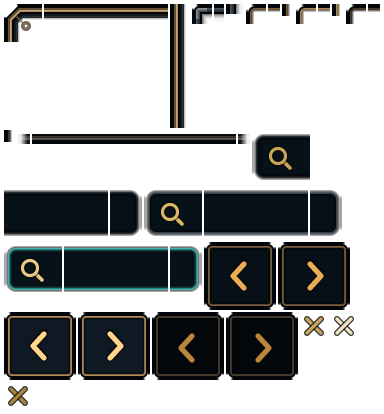
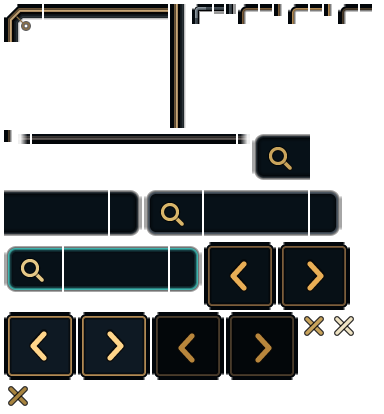
feat: compact Dereth slots, text and padding
Slots are 38 px on a 40 px pitch with a thin 3 px rim, so 32 px DAT icons
fill them. The header, title, labels and stack counts are smaller, and the
Vault uses one even 6 px gap with no extra grid inset.

Changed region(s): [[0.5, 0.0, 1.0, 0.058]]

diff --git a/decal-plugin/LegACEy.Plugin.Vault/VaultShellPanel.cs b/decal-plugin/LegACEy.Plugin.Vault/VaultShellPanel.cs
@@ -20,9 +20,9 @@ namespace LegACEy.Plugin.Vault;
 /// </summary>
 public sealed class VaultShellPanel : UserControl, IDisposable, IRetailItemDropTarget
 {
-    public const int WindowWidth = 566;
-    // Room for ten rows with Windows fonts, whose taller lines take 12 px more than the Linux test fonts.
-    public const int WindowHeight = 706;
+    public const int WindowWidth = 450;
+    // Room for ten rows with Windows fonts, whose lines are taller than the Linux test fonts'.
+    public const int WindowHeight = 580;
     /// <summary>The header's chest icon, from the DAT.</summary>
     public const uint ChestIconId = 0x06001020;
     // A whole page of slots, so the grid looks the same however many items the page holds.
@@ -64,11 +64,11 @@ public sealed class VaultShellPanel : UserControl, IDisposable, IRetailItemDropT
     private readonly VaultClient? _client;
     private readonly VaultSnapshot? _sample;
     private readonly IItemDragHost? _dragHost;
-    private readonly TextBlock _itemsLabel = Label(string.Empty, MutedBrush, 13);
-    private readonly TextBlock _items = Label(string.Empty, TextBrush, 13);
-    private readonly TextBlock _balance = Label(string.Empty, GoldBrush, 13);
+    private readonly TextBlock _itemsLabel = Label(string.Empty, MutedBrush, 12);
+    private readonly TextBlock _items = Label(string.Empty, TextBrush, 12);
+    private readonly TextBlock _balance = Label(string.Empty, GoldBrush, 12);
     private readonly TextBlock _pagerText = Label(string.Empty, MutedBrush, 12);
-    private readonly DerethSearchField _search = new("Search vault…") { Margin = new Thickness(2, 0, 2, 10) };
+    private readonly DerethSearchField _search = new("Search vault…") { Margin = new Thickness(0, 0, 0, 6) };
     private readonly DerethPagerButton _previous = new(DerethSpriteArt.PagerPrevious) { Width = 34, Height = 32, IsEnabled = false };
     private readonly DerethPagerButton _next = new(DerethSpriteArt.PagerNext) { Width = 34, Height = 32, IsEnabled = false };
     // The message line above the pager: wraps rather than trims, so a long refusal reason stays whole.
@@ -82,7 +82,7 @@ public sealed class VaultShellPanel : UserControl, IDisposable, IRetailItemDropT
     private readonly List<Border> _dropIndicators = new();
     // The header line: "Items: n / capacity" and the balance, or "N selected" with the selection's buttons instead.
     private readonly StackPanel _itemsLine = new() { Orientation = Orientation.Horizontal, Spacing = 4 };
-    private readonly TextBlock _selectedLabel = Label(string.Empty, SelectedBrush, 13);
+    private readonly TextBlock _selectedLabel = Label(string.Empty, SelectedBrush, 12);
     private readonly TextBlock _withdrawText = Label(string.Empty, GoldBrush, 12);
     private readonly DerethButton _withdrawSelection = new() { Height = 24 };
     private readonly DerethButton _clearSelection = new() { Height = 24, Content = Label("Clear", MutedBrush, 12) };
@@ -125,7 +125,7 @@ public sealed class VaultShellPanel : UserControl, IDisposable, IRetailItemDropT
         _sample = client == null ? SampleSnapshot() : null;
         RenderOptions.SetBitmapInterpolationMode(this, BitmapInterpolationMode.None);
 
-        var summary = new Grid { ColumnDefinitions = new ColumnDefinitions("*,Auto"), Margin = new Thickness(2, 10, 2, 8) };
+        var summary = new Grid { ColumnDefinitions = new ColumnDefinitions("*,Auto"), Margin = new Thickness(2, 6, 2, 6) };
         summary.Children.Add(_itemsLine);
         Grid.SetColumn(_balance, 1);
         summary.Children.Add(_balance);
@@ -143,9 +143,7 @@ public sealed class VaultShellPanel : UserControl, IDisposable, IRetailItemDropT
         Grid.SetRow(_search, 1);
         _search.TextChanged += (_, _) => _client?.SetSearch(_search.Text);
         Grid.SetRow(_grid, 2);
-        // Inset from the search field above it, which stays the window's widest line.
-        _grid.Margin = new Thickness(10, 0, 10, 0);
-        var pager = new Grid { ColumnDefinitions = new ColumnDefinitions("Auto,*,Auto"), Margin = new Thickness(4, 10, 4, 0) };
+        var pager = new Grid { ColumnDefinitions = new ColumnDefinitions("Auto,*,Auto"), Margin = new Thickness(0, 6, 0, 0) };
         _previous.Click += (_, _) => _client?.PreviousPage();
         pager.Children.Add(_previous);
         _pagerText.HorizontalAlignment = HorizontalAlignment.Center;
@@ -531,10 +529,10 @@ public sealed class VaultShellPanel : UserControl, IDisposable, IRetailItemDropT
     private static Control StackCount(int count)
     {
         var panel = new Panel { HorizontalAlignment = HorizontalAlignment.Right, VerticalAlignment = VerticalAlignment.Bottom, Margin = new Thickness(0, 0, 3, 1) };
-        var shadow = Label(count.ToString(), ShadowBrush, 11);
+        var shadow = Label(count.ToString(), ShadowBrush, 10);
         shadow.FontWeight = FontWeight.SemiBold;
         shadow.Margin = new Thickness(1, 1, 0, 0);
-        var text = Label(count.ToString(), TextBrush, 11);
+        var text = Label(count.ToString(), TextBrush, 10);
         text.FontWeight = FontWeight.SemiBold;
         text.Margin = new Thickness(0, 0, 1, 1);
         panel.Children.Add(shadow);

diff --git a/decal-plugin/LegACEy.Client.Themes/Dereth/DerethParts.cs b/decal-plugin/LegACEy.Client.Themes/Dereth/DerethParts.cs
@@ -181,14 +181,14 @@ public sealed class DerethSearchField : DerethThreeSlice
     public DerethSearchField(string placeholder)
         : base(DerethSheet.Search(DerethFieldState.Normal).Left, DerethSheet.Search(DerethFieldState.Normal).Middle, DerethSheet.Search(DerethFieldState.Normal).Right)
     {
-        Height = 30;
+        Height = 26;
         // The box is bare: the sheet's field is its frame, so the box's own border, fill and minimum height are cleared.
         _input = new TextBox
         {
             Watermark = placeholder,
-            Foreground = DerethPalette.TextBrush, CaretBrush = DerethPalette.GoldBrush, FontFamily = DerethPalette.Body, FontSize = 13,
+            Foreground = DerethPalette.TextBrush, CaretBrush = DerethPalette.GoldBrush, FontFamily = DerethPalette.Body, FontSize = 12,
             Background = Brushes.Transparent, BorderThickness = new Thickness(0), Padding = new Thickness(0), MinHeight = 0,
-            VerticalContentAlignment = VerticalAlignment.Center, Margin = new Thickness(43, 0, 8, 0)
+            VerticalContentAlignment = VerticalAlignment.Center, Margin = new Thickness(34, 0, 8, 0)
         };
         _input.TextChanged += (_, _) => TextChanged?.Invoke(this, EventArgs.Empty);
         _input.GotFocus += (_, _) => ShowState();
@@ -307,15 +307,16 @@ public sealed class DerethWindow : UserControl
     public DerethWindow(string title, Control? icon, Control content)
     {
         if (content == null) throw new ArgumentNullException(nameof(content));
-        var header = new Grid { ColumnDefinitions = new ColumnDefinitions("Auto,*,Auto"), ColumnSpacing = 10, Height = 50 };
+        var header = new Grid { ColumnDefinitions = new ColumnDefinitions("Auto,*,Auto"), ColumnSpacing = 8, Height = 40 };
         if (icon != null)
         {
-            var framed = new DerethFrame(DerethFrameArt.Button) { Width = 40, Height = 40, Child = icon };
+            // The header's emblem is shrunk to fit; item icons elsewhere stay at their native size.
+            var framed = new DerethFrame(DerethFrameArt.Button) { Width = 32, Height = 32, Child = new Viewbox { Child = icon } };
             header.Children.Add(framed);
         }
         var name = new TextBlock
         {
-            Text = title, Foreground = DerethPalette.CreamBrush, FontSize = 24, FontFamily = DerethPalette.Title,
+            Text = title, Foreground = DerethPalette.CreamBrush, FontSize = 18, FontFamily = DerethPalette.Title,
             VerticalAlignment = VerticalAlignment.Center
         };
         Grid.SetColumn(name, 1);
@@ -327,7 +328,7 @@ public sealed class DerethWindow : UserControl
         Grid.SetColumn(close, 2);
         header.Children.Add(close);
 
-        var body = new Grid { RowDefinitions = new RowDefinitions("Auto,Auto,*"), Margin = new Thickness(6, 2, 6, 6) };
+        var body = new Grid { RowDefinitions = new RowDefinitions("Auto,Auto,*"), Margin = new Thickness(6, 0, 6, 6) };
         body.Children.Add(header);
         // The rule runs nearly frame to frame, as in the concept.
         var rule = new DerethRule { Margin = new Thickness(-6, 0, -6, 0) };
@@ -342,14 +343,14 @@ public sealed class DerethWindow : UserControl
 }
 
 /// <summary>
-/// A scrolling grid of fixed slots: 46 px cells on a 50 px pitch, as many columns as the width holds, centred, scrolling
+/// A scrolling grid of fixed slots: 38 px cells on a 40 px pitch, as many columns as the width holds, centred, scrolling
 /// vertically. It takes cells and knows nothing about what they show. It wraps a plain ScrollViewer, because a subclass
 /// gets no template from the base theme.
 /// </summary>
 public sealed class DerethSlotGrid : UserControl
 {
-    public const double CellSize = 46;
-    public const double Pitch = 50;
+    public const double CellSize = 38;
+    public const double Pitch = 40;
 
     private readonly WrapPanel _cells = new()
     {
@@ -388,7 +389,7 @@ public sealed class DerethSlot : Grid
     private readonly Border _wash;
     private readonly Border _outline;
 
-    /// <summary>A slot holding the content: a 46 px framed well, left-aligned in its pitch, with a selected state.</summary>
+    /// <summary>A slot holding the content: a 38 px framed well, left-aligned in its pitch, with a selected state.</summary>
     public DerethSlot(Control? content)
     {
         Width = DerethSlotGrid.CellSize;
@@ -403,7 +404,7 @@ public sealed class DerethSlot : Grid
         _outline = new Border
         {
             BorderBrush = DerethPalette.TealBrush, BorderThickness = new Thickness(2), CornerRadius = new CornerRadius(3),
-            BoxShadow = new BoxShadows(new BoxShadow { IsInset = true, Blur = 10, Color = DerethPalette.Teal.WithAlpha(0xB0) }),
+            BoxShadow = new BoxShadows(new BoxShadow { IsInset = true, Blur = 6, Color = DerethPalette.Teal.WithAlpha(0xB0) }),
             IsVisible = false, IsHitTestVisible = false
         };
         Children.Add(_outline);

diff --git a/decal-plugin/LegACEy.Client.Themes/Dereth/DerethSheet.cs b/decal-plugin/LegACEy.Client.Themes/Dereth/DerethSheet.cs
@@ -30,10 +30,10 @@ internal static class DerethSheet
     public static readonly Rect FrameTop = new(46, 6, 120, 16);
     public static readonly Rect FrameLeft = new(172, 6, 16, 120);
 
-    // Slot frame, 46 DIP cells. Corner 8 DIP, edges 7 DIP.
+    // Slot frame, 38 DIP cells: a 32 px icon inside 3 DIP edges. Corner 8 DIP.
     public static readonly Rect SlotCorner = new(194, 6, 16, 16);
-    public static readonly Rect SlotTop = new(216, 6, 6, 14);
-    public static readonly Rect SlotLeft = new(228, 6, 14, 6);
+    public static readonly Rect SlotTop = new(216, 6, 6, 6);
+    public static readonly Rect SlotLeft = new(228, 6, 6, 6);
 
     // Title rule: left cap, stretched middle, right cap. 5 DIP tall.
     public static readonly Rect RuleLeft = new(20, 132, 8, 10);
@@ -45,9 +45,9 @@ internal static class DerethSheet
         [(DerethFrameArt.Window, DerethState.Normal)] = new NineSlice(FrameCorner, FrameTop, FrameLeft, Color.Parse("#081016")),
         [(DerethFrameArt.Slot, DerethState.Normal)] = new NineSlice(SlotCorner, SlotTop, SlotLeft, Color.Parse("#02070B")),
         // Button frame: close box, text buttons and the header icon. Corner 8 DIP, edges 4 DIP.
-        [(DerethFrameArt.Button, DerethState.Normal)] = new NineSlice(new(248, 6, 16, 16), new(270, 6, 8, 8), new(284, 6, 8, 8), Color.Parse("#071016")),
-        [(DerethFrameArt.Button, DerethState.Hover)] = new NineSlice(new(298, 6, 16, 16), new(320, 6, 8, 8), new(334, 6, 8, 8), Color.Parse("#0E1923")),
-        [(DerethFrameArt.Button, DerethState.Pressed)] = new NineSlice(new(348, 6, 16, 16), new(370, 6, 8, 8), new(6, 132, 8, 8), Color.Parse("#03070A")),
+        [(DerethFrameArt.Button, DerethState.Normal)] = new NineSlice(new(240, 6, 16, 16), new(262, 6, 8, 8), new(276, 6, 8, 8), Color.Parse("#071016")),
+        [(DerethFrameArt.Button, DerethState.Hover)] = new NineSlice(new(290, 6, 16, 16), new(312, 6, 8, 8), new(326, 6, 8, 8), Color.Parse("#0E1923")),
+        [(DerethFrameArt.Button, DerethState.Pressed)] = new NineSlice(new(340, 6, 16, 16), new(362, 6, 8, 8), new(6, 132, 8, 8), Color.Parse("#03070A")),
     };
 
     // Search field per state: left cap (carries the magnifier), stretched middle, right cap. 25 DIP tall.

diff --git a/decal-plugin/LegACEy.Plugin.Vault/VaultPlugin.cs b/decal-plugin/LegACEy.Plugin.Vault/VaultPlugin.cs
@@ -14,8 +14,8 @@ public sealed class VaultPlugin : ILegACEyPlugin
     private const string Station = "vault";
     // The window resizes freely; the grid centres its columns in the spare width. The minimum width fits "N selected", Withdraw N and
     // Clear on one line, and at the minimum height one grid row still fits with the status line shown.
-    // The Dereth header's strip from the window's top that drags it: the 8 px frame edge, the 2 px top margin and the 50 px header.
-    private const int HeaderHeight = 60;
+    // The Dereth header's strip from the window's top that drags it: the 8 px frame edge and the 40 px header.
+    private const int HeaderHeight = 48;
     private static readonly WindowResizing Sizing =new(new Size(290, 306));
 
     public string Name => "Vault";

diff --git a/decal-plugin/LegACEy.Client.Tests/VaultShellTests.cs b/decal-plugin/LegACEy.Client.Tests/VaultShellTests.cs
@@ -136,13 +136,13 @@ public sealed class VaultShellTests
         host.Tick();
         Assert.Equal(10, Columns(host));
 
-        host.Resize(614, VaultShellPanel.WindowHeight);
+        host.Resize(490, VaultShellPanel.WindowHeight);
         host.Tick();
         Assert.Equal(11, Columns(host));
 
-        host.Resize(314, VaultShellPanel.WindowHeight);
+        host.Resize(290, VaultShellPanel.WindowHeight);
         host.Tick();
-        Assert.Equal(5, Columns(host));
+        Assert.Equal(6, Columns(host));
         Assert.Null(host.LastError);
     });
 

diff --git a/decal-plugin/LegACEy.Client.Themes/README.md b/decal-plugin/LegACEy.Client.Themes/README.md
@@ -43,5 +43,5 @@ replaces the PNG and pastes a new region table; the region sizes only change whe
 AC chrome, so its windows are opened without the retail theme over them.
 
 Its shared parts (frame, slot grid, scrollbar template, button, search field) take data in and raise events out; the Vault
-builds on them. The slot grid lays 46 px slots on a 50 px pitch, as many columns as fit, centred. `DerethWarmUp` builds
+builds on them. The slot grid lays 38 px slots on a 40 px pitch, so 32 px icons sit in a thin rim, as many columns as fit, centred. `DerethWarmUp` builds
 the theme's parts once at login, so the first window opens without a long frame.
